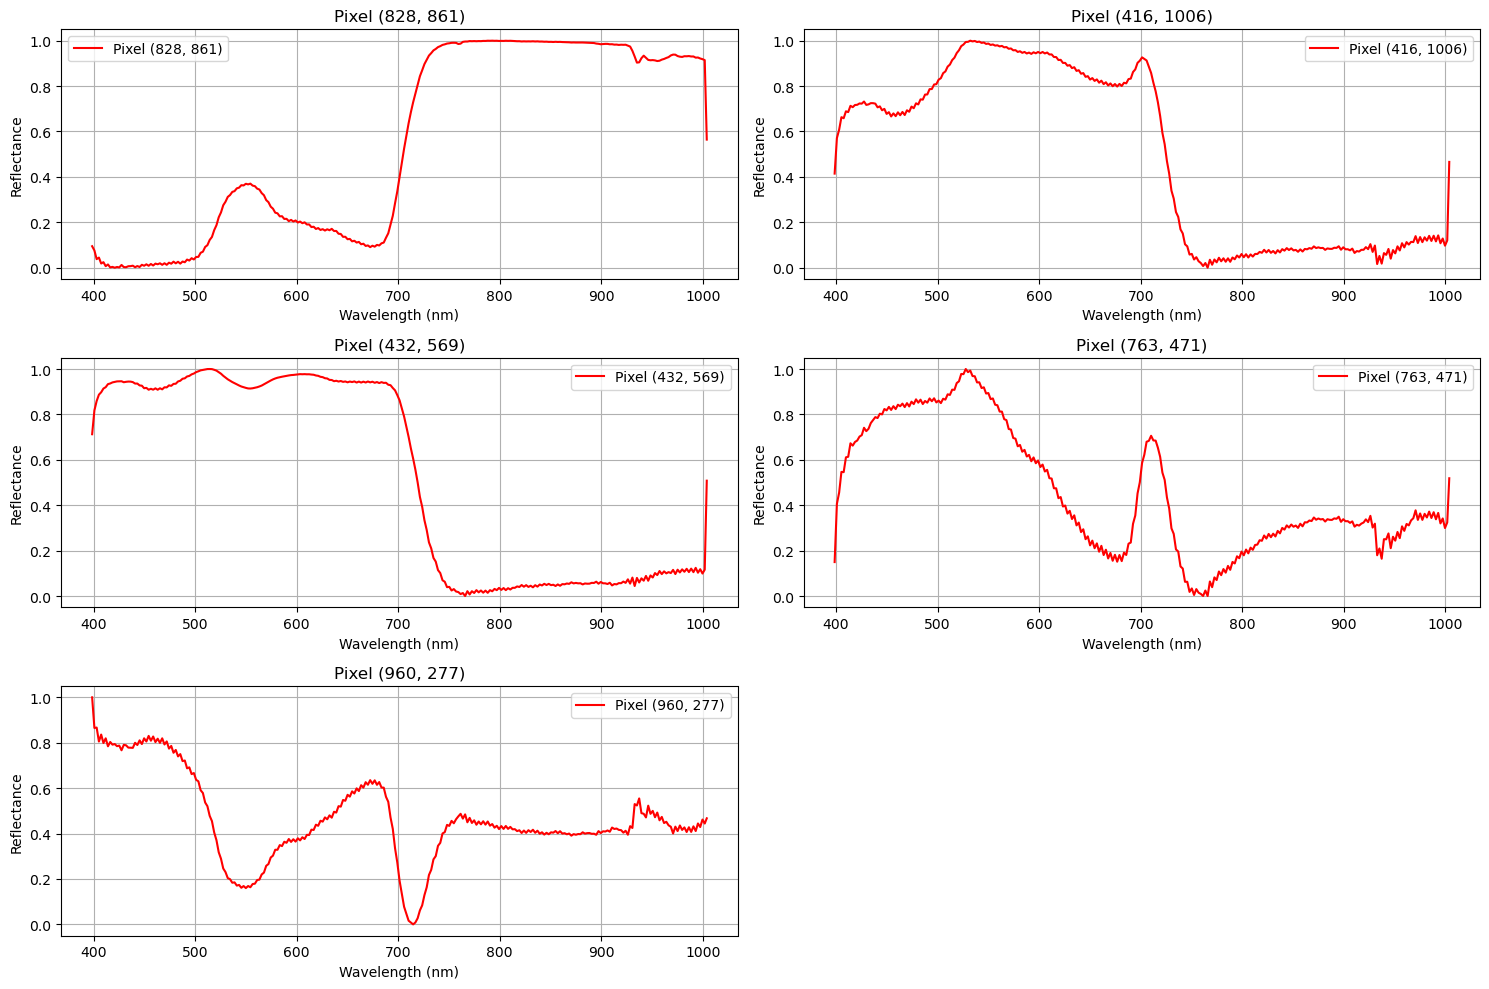
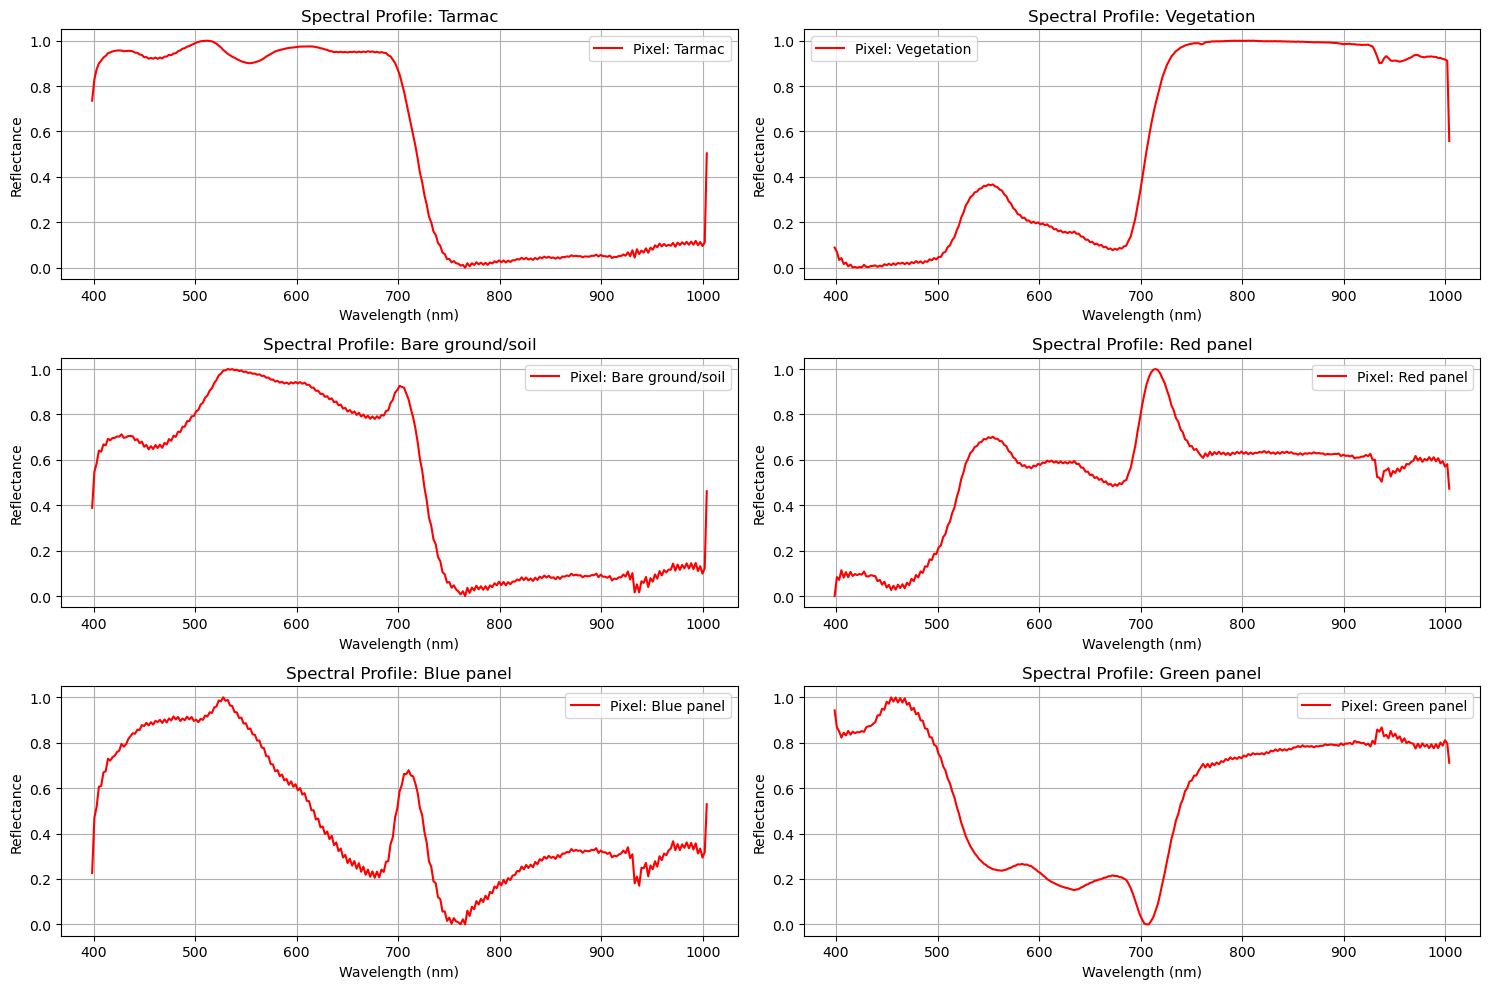
I made a workflow correction (Problem 3), I initially interpreted the question otherwise

diff --git a/Problem2_d_PCA_v2.py b/Problem2_d_PCA_v2.py
@@ -72,23 +72,69 @@ def main():
     plt.tight_layout()
     plt.show()
     
-    # Define pixels
-    pixels = [(828, 861), (416, 1006), (432, 569), (763, 471), (488, 206)]
+    
+    # # Define pixels
+    # pixels = [(345, 309), (894, 881), (423, 1008), (397, 83), (773, 468), (687, 552)]
+    # pixel_ID = ['Tarmac', 'Vegetation', 'Bare ground/soil', 'Red panel', 'Blue panel', 'Green panel']
+    # n_pixels = len(pixels)
+    # n_rows = int(np.ceil(np.sqrt(n_pixels)))
+    # n_cols = int(np.ceil(n_pixels / n_rows))
+
+    # # Plot spectral profiles for original data (unstandardized)
+    # fig, axes = plt.subplots(n_rows, n_cols, figsize=(15, 10))
+    # axes = axes.ravel()
+    # for i, (x, y) in enumerate(pixels):
+    #     spectral_profile = X_recons_all_pcs_img[y, x, :]
+    #     std_profile_all = std_with_pca_params(spectral_profile, mean_vec, std_vec)
+    #     norm_std_profile_all = min_max_normalize(std_profile_all)
+    #     axes[i].plot(bands_float, norm_std_profile_all, color='red', label=f"Pixel ({x}, {y})")
+    #     axes[i].set_xlabel("Wavelength (nm)")
+    #     axes[i].set_ylabel("Reflectance")
+    #     axes[i].set_title(f"Pixel ({x}, {y})")
+    #     axes[i].grid()
+    #     axes[i].legend()
+    # for i in range(n_pixels, n_rows * n_cols):
+    #     axes[i].axis("off")
+    # plt.tight_layout()
+    # plt.show()
+
+    # # Plot spectral profiles for denoised spaces
+    # fig, axes = plt.subplots(n_rows, n_cols, figsize=(15, 10))
+    # axes = axes.ravel()
+    # for i, (x, y) in enumerate(pixels):
+    #     # Extract and standardize using PCA mean/std
+    #     spectral_profile = X_recon_clean_PCs_img[y, x, :]
+    #     std_profile_denoised = std_with_pca_params(spectral_profile, mean_vec, std_vec)
+    #     norm_std_profile_denoised = min_max_normalize(std_profile_denoised)
+    #     axes[i].plot(bands_float, norm_std_profile_denoised, color='red', label=f"Pixel ({x}, {y})")
+    #     axes[i].set_xlabel("Wavelength (nm)")
+    #     axes[i].set_ylabel("Reflectance")
+    #     axes[i].set_title(f"Pixel ({x}, {y})")
+    #     axes[i].grid()
+    #     axes[i].legend()
+    # for i in range(n_pixels, n_rows * n_cols):
+    #     axes[i].axis("off")
+    # plt.tight_layout()
+    # plt.show()
+
+    # Defines pixels and their corresponding names
+    pixels = [(345, 309), (894, 881), (423, 1008), (397, 83), (773, 468), (687, 552)]
+    pixel_ID = ['Tarmac', 'Vegetation', 'Bare ground/soil', 'Red panel', 'Blue panel', 'Green panel']
     n_pixels = len(pixels)
     n_rows = int(np.ceil(np.sqrt(n_pixels)))
     n_cols = int(np.ceil(n_pixels / n_rows))
 
-    # Plot spectral profiles for original data (unstandardized)
+    # Plots spectral profiles for original data (unstandardized)
     fig, axes = plt.subplots(n_rows, n_cols, figsize=(15, 10))
     axes = axes.ravel()
     for i, (x, y) in enumerate(pixels):
         spectral_profile = X_recons_all_pcs_img[y, x, :]
         std_profile_all = std_with_pca_params(spectral_profile, mean_vec, std_vec)
         norm_std_profile_all = min_max_normalize(std_profile_all)
-        axes[i].plot(bands_float, norm_std_profile_all, color='red', label=f"Pixel ({x}, {y})")
+        axes[i].plot(bands_float, norm_std_profile_all, color='red', label=f"Pixel: {pixel_ID[i]}")
         axes[i].set_xlabel("Wavelength (nm)")
         axes[i].set_ylabel("Reflectance")
-        axes[i].set_title(f"Pixel ({x}, {y})")
+        axes[i].set_title(f"Spectral Profile: {pixel_ID[i]}")
         axes[i].grid()
         axes[i].legend()
     for i in range(n_pixels, n_rows * n_cols):
@@ -96,18 +142,17 @@ def main():
     plt.tight_layout()
     plt.show()
 
-    # Plot spectral profiles for denoised spaces
+    # Plots spectral profiles for denoised spaces
     fig, axes = plt.subplots(n_rows, n_cols, figsize=(15, 10))
     axes = axes.ravel()
     for i, (x, y) in enumerate(pixels):
-        # Extract and standardize using PCA mean/std
         spectral_profile = X_recon_clean_PCs_img[y, x, :]
         std_profile_denoised = std_with_pca_params(spectral_profile, mean_vec, std_vec)
         norm_std_profile_denoised = min_max_normalize(std_profile_denoised)
-        axes[i].plot(bands_float, norm_std_profile_denoised, color='red', label=f"Pixel ({x}, {y})")
+        axes[i].plot(bands_float, norm_std_profile_denoised, color='red', label=f"Pixel: {pixel_ID[i]}")
         axes[i].set_xlabel("Wavelength (nm)")
         axes[i].set_ylabel("Reflectance")
-        axes[i].set_title(f"Pixel ({x}, {y})")
+        axes[i].set_title(f"Spectral Profile: {pixel_ID[i]}")
         axes[i].grid()
         axes[i].legend()
     for i in range(n_pixels, n_rows * n_cols):

diff --git a/Problem3_b_Sentinel_K-means_PCA_v2.py b/Problem3_b_Sentinel_K-means_PCA_v2.py
@@ -41,55 +41,10 @@ H, W, D = masked_data.shape
 X = masked_data.reshape(-1, D)
 pcs, eigenvals, mean_vec, std_vec, X_proj = SVD_PCA(X, standardize=True)
 
-idx_3 = list(range(3))         # first 3 components
-idx_4 = list(range(4))         # first 4 components
-idx_5 = list(range(5))         # first 5 components
-idx_6 = list(range(6))         # first 6 components
-
-X_proj_3 = X_proj[:, idx_3]    # shape (H*W, 3)
-X_proj_4 = X_proj[:, idx_4]    # shape (H*W, 4)
-X_proj_5 = X_proj[:, idx_5]    # shape (H*W, 5)
-X_proj_6 = X_proj[:, idx_6]    # shape (H*W, 6)
-
-X_proj_3_img = X_proj_3.reshape(H, W, 3)
-X_proj_4_img = X_proj_4.reshape(H, W, 4)
-X_proj_5_img = X_proj_5.reshape(H, W, 5)
-X_proj_6_img = X_proj_6.reshape(H, W, 6)
-
-# store all transforms in dictionery
-image_dict = {
-    3: X_proj_3_img,
-    4: X_proj_4_img,
-    5: X_proj_5_img,
-    6: X_proj_6_img
-}
-
-# Dynamically create only 3 subplots
-n = 4
-current_image = image_dict[n]
-
-# plot
-fig, axes = plt.subplots(1, n, figsize=(5 * n, 5))  
-axes = axes.ravel() 
-for i in range(n):  
-    axes[i].imshow(current_image[:, :, i], cmap=cmocean.cm.thermal)
-    axes[i].set_title(f"PC{i+1}")
-    axes[i].axis("off")
-
-plt.tight_layout()
-plt.show()
-
-# # Plot each of the 3 principal components
-# fig, axes = plt.subplots(1, 5, figsize=(20, 5))
-# axes = axes.ravel()  # Flatten the 2D array
-
-# for i in range(3):  # We have 5 components
-#     axes[i].imshow(X_proj_3_img[:, :, i], cmap=cmocean.cm.thermal)
-#     axes[i].set_title(f"PC{i+1}")
-#     axes[i].axis("off")
-
-# plt.tight_layout()
-# plt.show()
+# transformation on the 5 PCS here
+idx = [2, 3, 4, 5] 
+X_proj_idx = X_proj[:, idx]  # shape (H*W, 4)
+X_proj_idx_img = X_proj_idx.reshape(H, W, 4) # Reshape back to image form (H, W, 4)
 
 # Run K-means
 k = 4
@@ -97,22 +52,46 @@ max_iter = 100
 tol = 1e-4
 random_state = 4
 
-H, W, num_pcs = current_image.shape  # (H, W, 4)
-X_pca_reshaped = current_image.reshape(-1, num_pcs)  # (H*W, 4)
+H, W, num_pcs = X_proj_idx_img.shape  # (H, W, 4)
+X_pca_reshaped = X_proj_idx_img.reshape(-1, num_pcs)  # (H*W, 4)
 centroids, labels = k_means(X_pca_reshaped, k, max_iter, tol, random_state)
 
-# Scatter plot for the 2D PCA (first 2 components)
+# Plot each of the 5 principal components
+fig, axes = plt.subplots(1, 4, figsize=(20, 5))
+axes = axes.ravel()  # Flatten the 2D array
+
+for i, pc_col in enumerate(idx):
+    axes[i].imshow(X_proj_idx_img[:, :, i], cmap=cmocean.cm.thermal)
+    axes[i].set_title(f"PC{pc_col+1}")
+    axes[i].axis("off")
+
+plt.tight_layout()
+plt.show()
+
+# Plot lower dimenstionality data
 fig, ax = plt.subplots(figsize=(6, 4))
 scatter = ax.scatter(
-    X_pca_reshaped[:, 0],  # PC #1
-    X_pca_reshaped[:, 1],  # PC #2
+    X_pca_reshaped[:, 0],  # PC #3 
+    X_pca_reshaped[:, 1],  # PC #4
     c=labels, cmap='viridis', s=2, alpha=0.7)
 ax.scatter(centroids[:, 0], centroids[:, 1], c='red', marker='o', s=40)
-ax.set_title(f'K-Means Clusters: PC{1} vs. PC{2}')
-ax.set_xlabel(f'PC{1}')
-ax.set_ylabel(f'PC{2}')
+ax.set_title(f'K-Means Clusters: PC{idx[0]+1} vs. PC{idx[1]+1}')
+ax.set_xlabel(f'PC{idx[0]+1}')
+ax.set_ylabel(f'PC{idx[1]+1}')
 plt.colorbar(scatter, ax=ax, label='Cluster Label')
 plt.show()
+
+fig, ax = plt.subplots(figsize=(6, 4))
+scatter = ax.scatter(
+    X_pca_reshaped[:, 2],  # PC 5 
+    X_pca_reshaped[:, 3],  # PC 6
+    c=labels, cmap='viridis', s=2, alpha=0.7)
+ax.scatter(centroids[:, 0], centroids[:, 1], c='red', marker='o', s=40)
+ax.set_title(f'K-Means Clusters: PC{idx[2]+1} vs. PC{idx[3]+1}')
+ax.set_xlabel(f'PC{idx[2]+1}')
+ax.set_ylabel(f'PC{idx[3]+1}')
+plt.colorbar(scatter, ax=ax, label='Cluster Label')
+plt.show() 
 
 # Spartial view on the k clusters
 labels_2d = labels.reshape(H, W)

diff --git a/sentinel_RGB_composite.py b/sentinel_RGB_composite.py
@@ -1,0 +1,72 @@
+# --Sentinel RGB image---
+import numpy as np
+import matplotlib.pyplot as plt
+from skimage.exposure import rescale_intensity
+
+def plot_rgb_composite(masked_data):
+    red_band = masked_data[:, :, 3].astype(float)  # Band 4 (665 nm)
+    green_band = masked_data[:, :, 2].astype(float)  # Band 3 (560 nm)
+    blue_band = masked_data[:, :, 1].astype(float)  # Band 2 (490 nm)
+
+    def process_band(band):
+        """Process individual band with non-negative enforcement and stretching"""
+        valid_pixels = band[~band.mask]
+        p_low, p_high = np.percentile(valid_pixels, (2, 98)) if valid_pixels.size > 0 else (0, 1)
+        rescaled_img = rescale_intensity(band.data, in_range=(p_low, p_high), out_range=(0, 1))
+        return rescaled_img
+    
+    red = process_band(red_band)
+    green = process_band(green_band)
+    blue = process_band(blue_band)
+
+    # Create RGB composite
+    rgb = np.stack([red, green, blue], axis=-1)
+
+    plt.figure(figsize=(12, 12), dpi=100)
+    plt.imshow(rgb)
+    plt.title("Sentinel-2 RGB Composite\n(Bands 4-3-2)", fontsize=11)
+    # plt.axis('off')
+    plt.savefig('Sentinel_2_RGB.png', bbox_inches='tight', dpi=300)
+    plt.show()
+
+# Load and preprocess data
+sentinel_data = np.load('sentinel2_rochester.npy')
+masked_data = np.ma.masked_where(sentinel_data == 0, sentinel_data)
+plot_rgb_composite(masked_data)
+
+def plot_4band_composite(masked_data):
+    """
+    Create a false-color composite using B3, B4, B5, B6
+    - Band assignments: R=Band5, G=Band4, B=Band3
+    - Band6 used for additional analysis (e.g., NDVI)
+    """
+    # Extract bands (0-based indices)
+    band3 = masked_data[:, :, 2].astype(float)  # Green (560 nm)
+    band4 = masked_data[:, :, 3].astype(float)  # Red (665 nm)
+    band5 = masked_data[:, :, 4].astype(float)  # Vegetation Red Edge (705 nm)
+    band6 = masked_data[:, :, 5].astype(float)  # Vegetation Red Edge (740 nm)
+
+    # Stretch bands using percentiles
+    def stretch(band):
+        p_low, p_high = np.percentile(band[band > 0], (2, 98))
+        return rescale_intensity(band, in_range=(p_low, p_high), out_range=(0, 1))
+    
+    # Create RGB composite (Band5=Red, Band4=Green, Band3=Blue)
+    rgb = np.stack([stretch(band5), stretch(band4), stretch(band3)], axis=-1)
+
+    # Plot
+    plt.figure(figsize=(12, 8))
+    plt.imshow(rgb)
+    plt.title("False-Color Composite: B5(R), B4(G), B3(B)\n+ Band6 for Vegetation Analysis")
+    # plt.axis('off')
+    plt.show()
+
+# Load data
+sentinel_data = np.load('sentinel2_rochester.npy')
+masked_data = np.ma.masked_where(sentinel_data == 0, sentinel_data)
+
+# Generate composite
+plot_4band_composite(masked_data)
+
+if __name__ == "__main__":
+    pass

diff --git a/RGB_composite.py b/RGB_composite.py
@@ -53,9 +53,44 @@ blue_stretched = stretch(blue, stretch_type='percentile', percentiles=(5, 95))
 rgb_image = np.dstack((red_stretched, green_stretched, blue_stretched))
 
 # Plot and save
-plt.figure(figsize=(12, 8))
+plt.figure(figsize=(8, 6))
 plt.imshow(rgb_image)
 plt.title(f"Enhanced RGB Composite\n(Red Band {red_band}, Green Band {green_band}, Blue Band {blue_band})")
 plt.axis('off')
-plt.savefig('Enhanced_RGB.png', dpi=300, bbox_inches='tight')
+plt.savefig('Sentinel_2_RGB.png', dpi=300, bbox_inches='tight')
 plt.show()
+
+# hyperspectral data to resize (250 by 250)
+rows, cols, n_bands = hsi_data.shape
+print(f"HSI data shape: {rows} x {cols} x {n_bands}")
+
+row_start = 10
+col_start = 300
+patch_size = 250
+
+patch = hsi_data[row_start:row_start + patch_size, col_start:col_start + patch_size, :]
+
+# Get RGB bands (using central wavelengths)
+# Extract bands with stretching
+red_patch = patch[:, :, red_band].astype(float)
+green_patch = patch[:, :, green_band].astype(float)
+blue_patch = patch[:, :, blue_band].astype(float)
+
+# Apply contrast stretching (try different parameters)
+red_stretched_patch = stretch(red_patch, stretch_type='percentile', percentiles=(5, 95))
+green_stretched_patch = stretch(green_patch, stretch_type='percentile', percentiles=(5, 95))
+blue_stretched_patch = stretch(blue_patch, stretch_type='percentile', percentiles=(5, 95))
+
+# Combine into RGB image
+rgb_image_patch = np.dstack((red_stretched_patch, green_stretched_patch, blue_stretched_patch))
+
+# Plot and save
+plt.figure(figsize=(8, 6))
+plt.imshow(rgb_image_patch)
+plt.title(f"RGB Composite Patch\n(Red Band {red_band}, Green Band {green_band}, Blue Band {blue_band})")
+plt.axis('off')
+plt.savefig('Patch_RGB_Sentinel_2.png', dpi=300, bbox_inches='tight')
+plt.show()
+
+if __name__ == "__main__":
+    pass

diff --git a/Problem3_c_HSI_K-means_PCA.py b/Problem3_c_HSI_K-means_PCA.py
@@ -36,7 +36,7 @@ H, W, n_bands = patch.shape
 X = patch.reshape(-1, n_bands) # original data
 pcs, eigenvals, mean_vec, std_vec, X_proj = SVD_PCA(X, standardize=True)
 
-# Transform data onto components 2, 5, 10, 50 and 100
+# Transform data onto components 2, 5, 10, 50 and 100 #  X_proj_10 = X_proj[:, :10]  # shape (H*W, 10)
 idx = [1, 4, 9, 49, 99] 
 X_proj_idx = X_proj[:, idx]  # shape (H*W, 5)
 
@@ -118,3 +118,6 @@ ax.set_xlabel(f'PC{idx[0]+1}')
 ax.set_ylabel(f'PC{idx[1]+1}')
 plt.colorbar(scatter, ax=ax, label='Cluster Label')
 plt.show()
+
+if __name__ == "__main__":
+    pass
